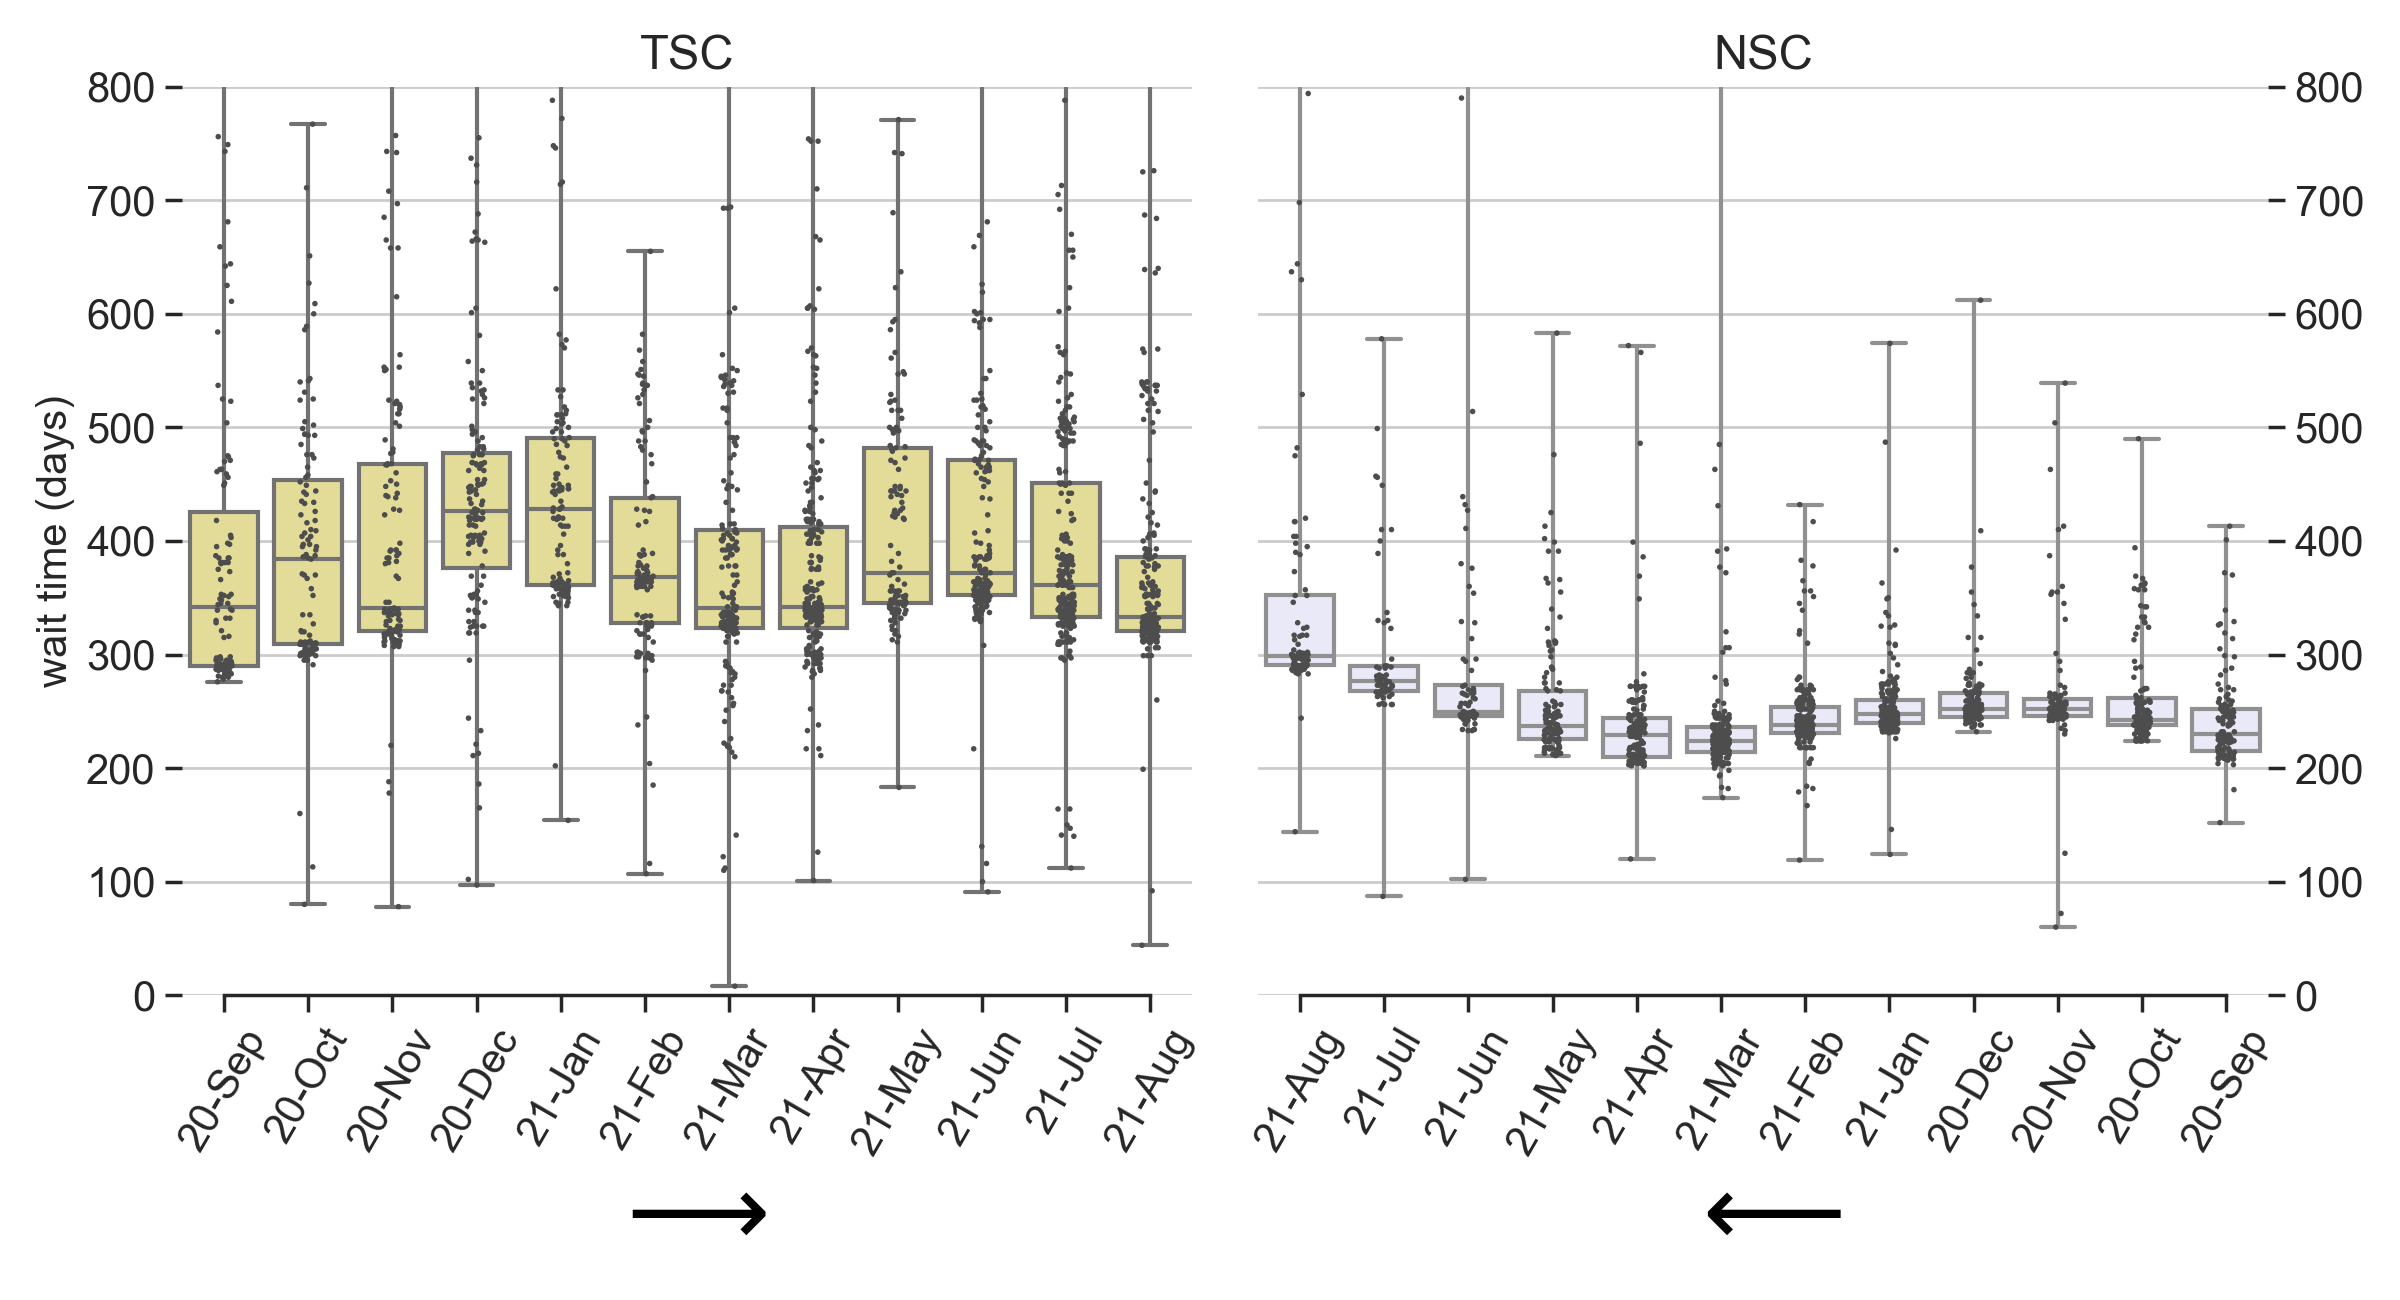
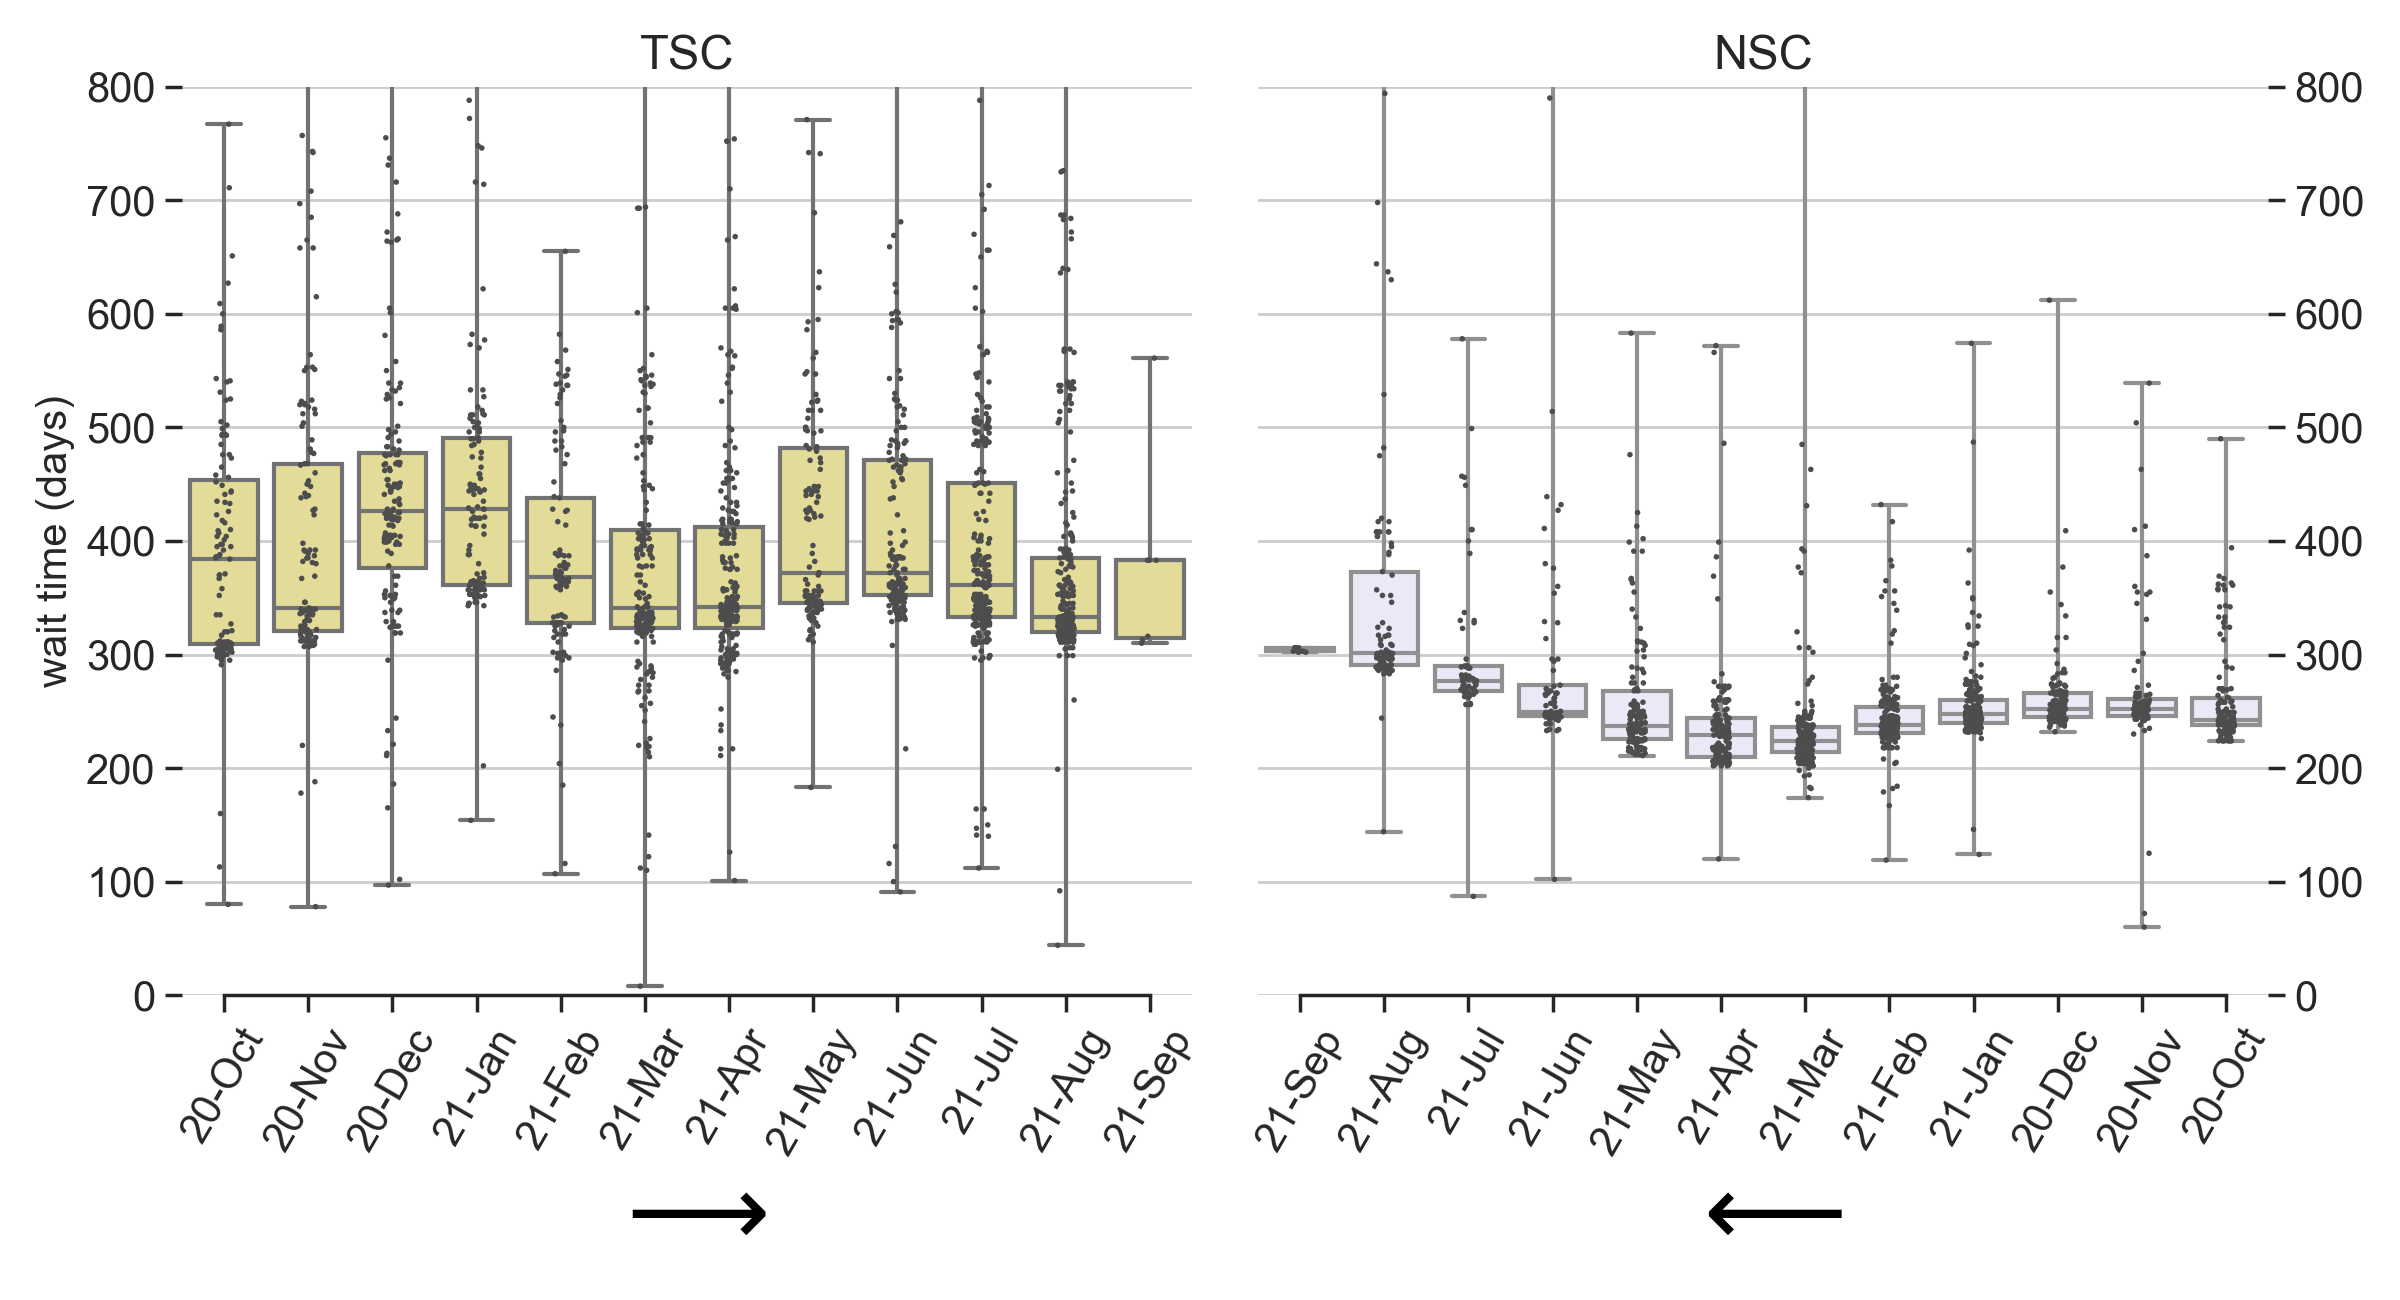
Sep-28 update

diff --git a/README.md b/README.md
@@ -1,4 +1,4 @@
-## National Interest Waiver Wait Time, updated Sep-14-2021 
+## National Interest Waiver Wait Time, updated Sep-28-2021 
 * If you wish to join our Telegram action group to discuss the delays of processing at TSC, please [fill out this form](https://docs.google.com/forms/d/194Vp6uimucdul6iqtNFB1HSKz_z75RKsQ-cp3z7f8YY/viewform?edit_requested=true).
  
 USCIS Employment-based-2 NIW I-140 wait time before approval (data source: [Victoria Chen](https://www.wegreened.com/eb1_niw_approvals)). 
